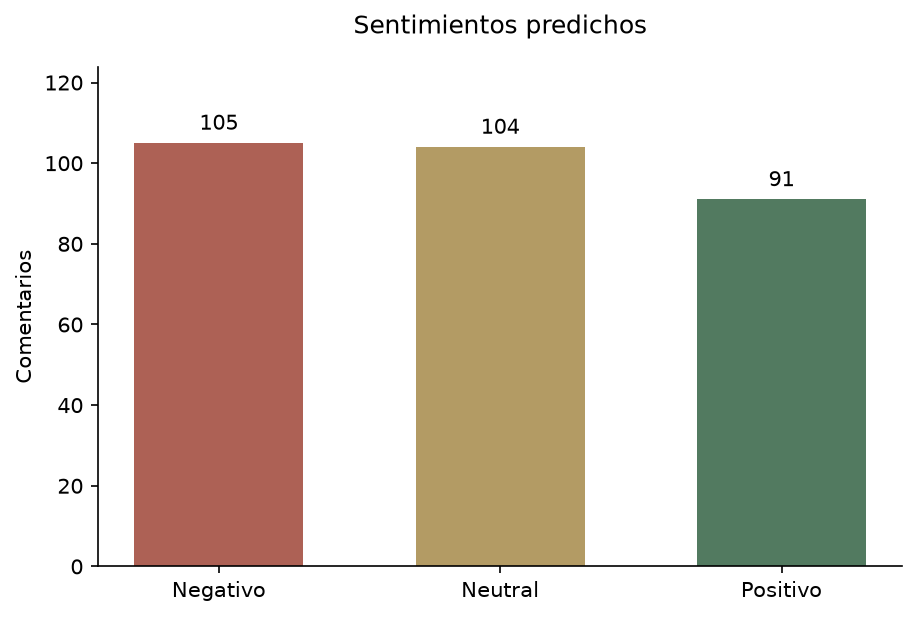
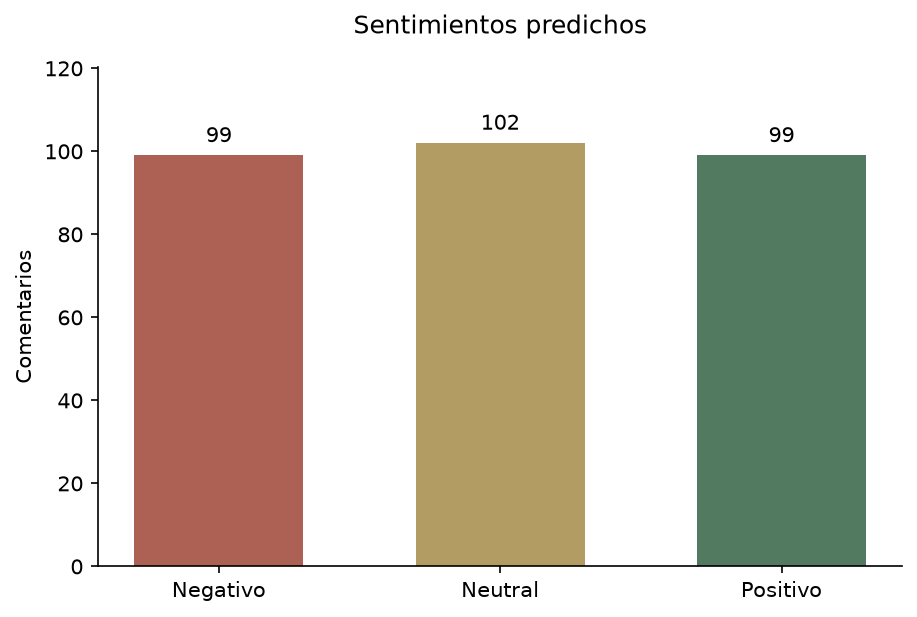
update

diff --git a/clasificador.py b/clasificador.py
@@ -1,4 +1,4 @@
-"""Clasificación con el modelo seleccionado en la sección 12 del notebook.
+"""Clasificación de comentarios con el modelo ONNX INT8 del proyecto.
 
 Ejemplo desde Python:
     resultado = clasificar_comentario("Esta aplicación es muy útil")
@@ -13,9 +13,13 @@ import re
 from functools import lru_cache
 from pathlib import Path
 
+import numpy as np
+
 
 RUTA_MODELO = Path(os.environ.get("MODEL_DIR") or Path(__file__).resolve().parent / "modelo")
+RUTA_ONNX = RUTA_MODELO / "modelo_int8.onnx"
 MAXIMO_TOKENS = 128
+ID_A_ETIQUETA = {0: "negative", 1: "neutral", 2: "positive"}
 SENTIMIENTOS = {
     "negative": "negativo",
     "neutral": "neutral",
@@ -37,45 +41,51 @@ def limpiar_texto(texto):
 
 @lru_cache(maxsize=1)
 def cargar_modelo():
-    """Cargar los archivos locales una vez y reutilizarlos en cada consulta."""
-    if not (RUTA_MODELO / "model.safetensors").is_file():
-        raise FileNotFoundError(
-            f"No se encontró model.safetensors en: {RUTA_MODELO}"
-        )
+    """Cargar el tokenizador y una sesión ONNX para reutilizarla."""
+    if not RUTA_ONNX.is_file():
+        raise FileNotFoundError(f"No se encontró el modelo ONNX en: {RUTA_ONNX}")
 
-    from transformers import AutoModelForSequenceClassification, AutoTokenizer, pipeline
+    import onnxruntime as ort
+    from transformers import AutoTokenizer
 
     tokenizador = AutoTokenizer.from_pretrained(
         str(RUTA_MODELO), local_files_only=True
     )
-    red = AutoModelForSequenceClassification.from_pretrained(
-        str(RUTA_MODELO), local_files_only=True
+    opciones = ort.SessionOptions()
+    opciones.intra_op_num_threads = int(os.environ.get("ONNX_INTRA_OP_THREADS", "2"))
+    opciones.inter_op_num_threads = 1
+    opciones.execution_mode = ort.ExecutionMode.ORT_SEQUENTIAL
+    sesion = ort.InferenceSession(
+        str(RUTA_ONNX),
+        sess_options=opciones,
+        providers=["CPUExecutionProvider"],
     )
-    # La aplicación usa CPU; la GPU se utilizó para el entrenamiento.
-    return pipeline(
-        "sentiment-analysis", model=red, tokenizer=tokenizador, device=-1
-    )
+    return tokenizador, sesion
 
 
 def clasificar_comentario(comentario):
-    """Devolver sentimiento y confianza, sin volver a entrenar la red.
-
-    La confianza está entre 0 y 1 y no equivale a la exactitud del modelo.
-    Los comentarios largos se truncan a 128 tokens, como en la evaluación.
-    """
+    """Devolver sentimiento y confianza sin volver a entrenar la red."""
     texto = limpiar_texto(comentario)
-    modelo = cargar_modelo()
-    prediccion = modelo(
-        texto, truncation=True, max_length=MAXIMO_TOKENS
-    )[0]
-    etiqueta = prediccion["label"].lower()
-    if etiqueta not in SENTIMIENTOS:
-        raise ValueError(f"El modelo devolvió una etiqueta inesperada: {etiqueta}")
+    tokenizador, sesion = cargar_modelo()
+    nombres_entrada = {entrada.name for entrada in sesion.get_inputs()}
+    codificado = tokenizador(
+        texto, truncation=True, max_length=MAXIMO_TOKENS, return_tensors="np"
+    )
+    entradas = {
+        nombre: np.ascontiguousarray(codificado[nombre], dtype=np.int64)
+        for nombre in nombres_entrada
+        if nombre in codificado
+    }
+    logits = sesion.run(None, entradas)[0][0].astype(np.float64)
+    probabilidades = np.exp(logits - np.max(logits))
+    probabilidades /= probabilidades.sum()
 
+    indice = int(np.argmax(probabilidades))
+    etiqueta = ID_A_ETIQUETA[indice]
     return {
         "sentimiento": SENTIMIENTOS[etiqueta],
         "etiqueta_modelo": etiqueta,
-        "confianza": float(prediccion["score"]),
+        "confianza": float(probabilidades[indice]),
     }
 
 

diff --git a/README.md b/README.md
@@ -1,21 +1,20 @@
 # Análisis de sentimientos multilingüe
 
-Aplicación Flask que clasifica comentarios como positivos, neutrales o negativos. Usa XLM-RoBERTa con la capa clasificadora entrenada en el proyecto académico y muestra las tres gráficas de evaluación guardadas.
+Aplicación Flask que clasifica comentarios como positivos, neutrales o negativos. Usa la versión ONNX INT8 del modelo XLM-RoBERTa entrenado en el proyecto académico y muestra las tres gráficas guardadas. El servidor solo realiza inferencia, no vuelve a entrenar el modelo.
 
 ## Preparar el servidor
 
-Esta configuración está pensada para Linux con Python 3.14 y PyTorch para CPU. Desde la raíz de este repositorio, crea el entorno e instala las dependencias.
+Esta configuración está pensada para Linux con Python 3.14 y ONNX Runtime para CPU. Desde la raíz de este repositorio, crea el entorno e instala las dependencias.
 
 ```bash
 python3.14 -m venv .venv
 source .venv/bin/activate
-python -m pip install --index-url https://download.pytorch.org/whl/cpu torch==2.15.0
 python -m pip install -r requirements.txt
 ```
 
-Transfiere `model.safetensors` desde la carpeta local `modelo` a la carpeta `modelo` del servidor. El archivo pesa 1,11 GB y está excluido de Git. En esa misma carpeta deben quedar `config.json`, `tokenizer.json` y `tokenizer_config.json`, incluidos en el repositorio. Si el proveedor usa un volumen aparte, configura `MODEL_DIR` con la ruta absoluta de la carpeta que contiene los cuatro archivos.
+Transfiere `modelo/modelo_int8.onnx` desde tu copia local al mismo directorio del servidor. El archivo pesa aproximadamente 266 MiB y está excluido de Git. En esa carpeta también deben estar `config.json`, `tokenizer.json` y `tokenizer_config.json`, que sí están incluidos en el repositorio. Si el proveedor usa un volumen aparte, configura `MODEL_DIR` con la ruta absoluta de la carpeta que contiene estos archivos.
 
-El campo `modelo_sha256` de `resultados_web/estadisticas.json` contiene la huella de los pesos con los que se generaron las gráficas. Comprueba el archivo transferido con `sha256sum modelo/model.safetensors` y compara los valores.
+Comprueba que la transferencia esté completa con `sha256sum modelo/modelo_int8.onnx` y compara el resultado con la huella SHA-256 indicada abajo.
 
 ## Iniciar la aplicación
 
@@ -23,7 +22,7 @@ El campo `modelo_sha256` de `resultados_web/estadisticas.json` contiene la huell
 gunicorn --config gunicorn.conf.py app:app
 ```
 
-La configuración escucha en el puerto `PORT` que entregue el proveedor, o en `8000` si no está definido. Usa un proceso para cargar una sola copia del modelo. El proveedor o su proxy se encarga de la URL HTTPS.
+La configuración escucha en el puerto `PORT` que entregue el proveedor, o en `8000` si no está definido. Usa un proceso y limita ONNX Runtime a dos hilos por defecto para compartir la CPU disponible. El proveedor o su proxy se encarga de la URL HTTPS.
 
 Abre la URL del servicio, envía un comentario y comprueba que aparezcan el sentimiento y la confianza. Desplázate hasta «Resultados del proyecto» para revisar las tres gráficas. La primera predicción carga los pesos en memoria. Mide la memoria y los tiempos de respuesta en el servidor elegido.
 
@@ -31,4 +30,6 @@ En Windows puedes probar la copia local con `python app.py` desde esta carpeta y
 
 ## Archivos de ejecución
 
-La aplicación usa el código Python, las plantillas de `templates`, los recursos de `static`, el resumen de `resultados_web` y el modelo con su tokenizador. Los datos de entrenamiento y los experimentos se mantienen en el proyecto académico.
+La aplicación usa el código Python, las plantillas de `templates`, los recursos de `static`, el resumen de `resultados_web`, el modelo ONNX INT8 y el tokenizador. No necesita los datos de entrenamiento ni el modelo `model.safetensors` original en el servidor.
+
[1 lines of base64/hex data omitted]
